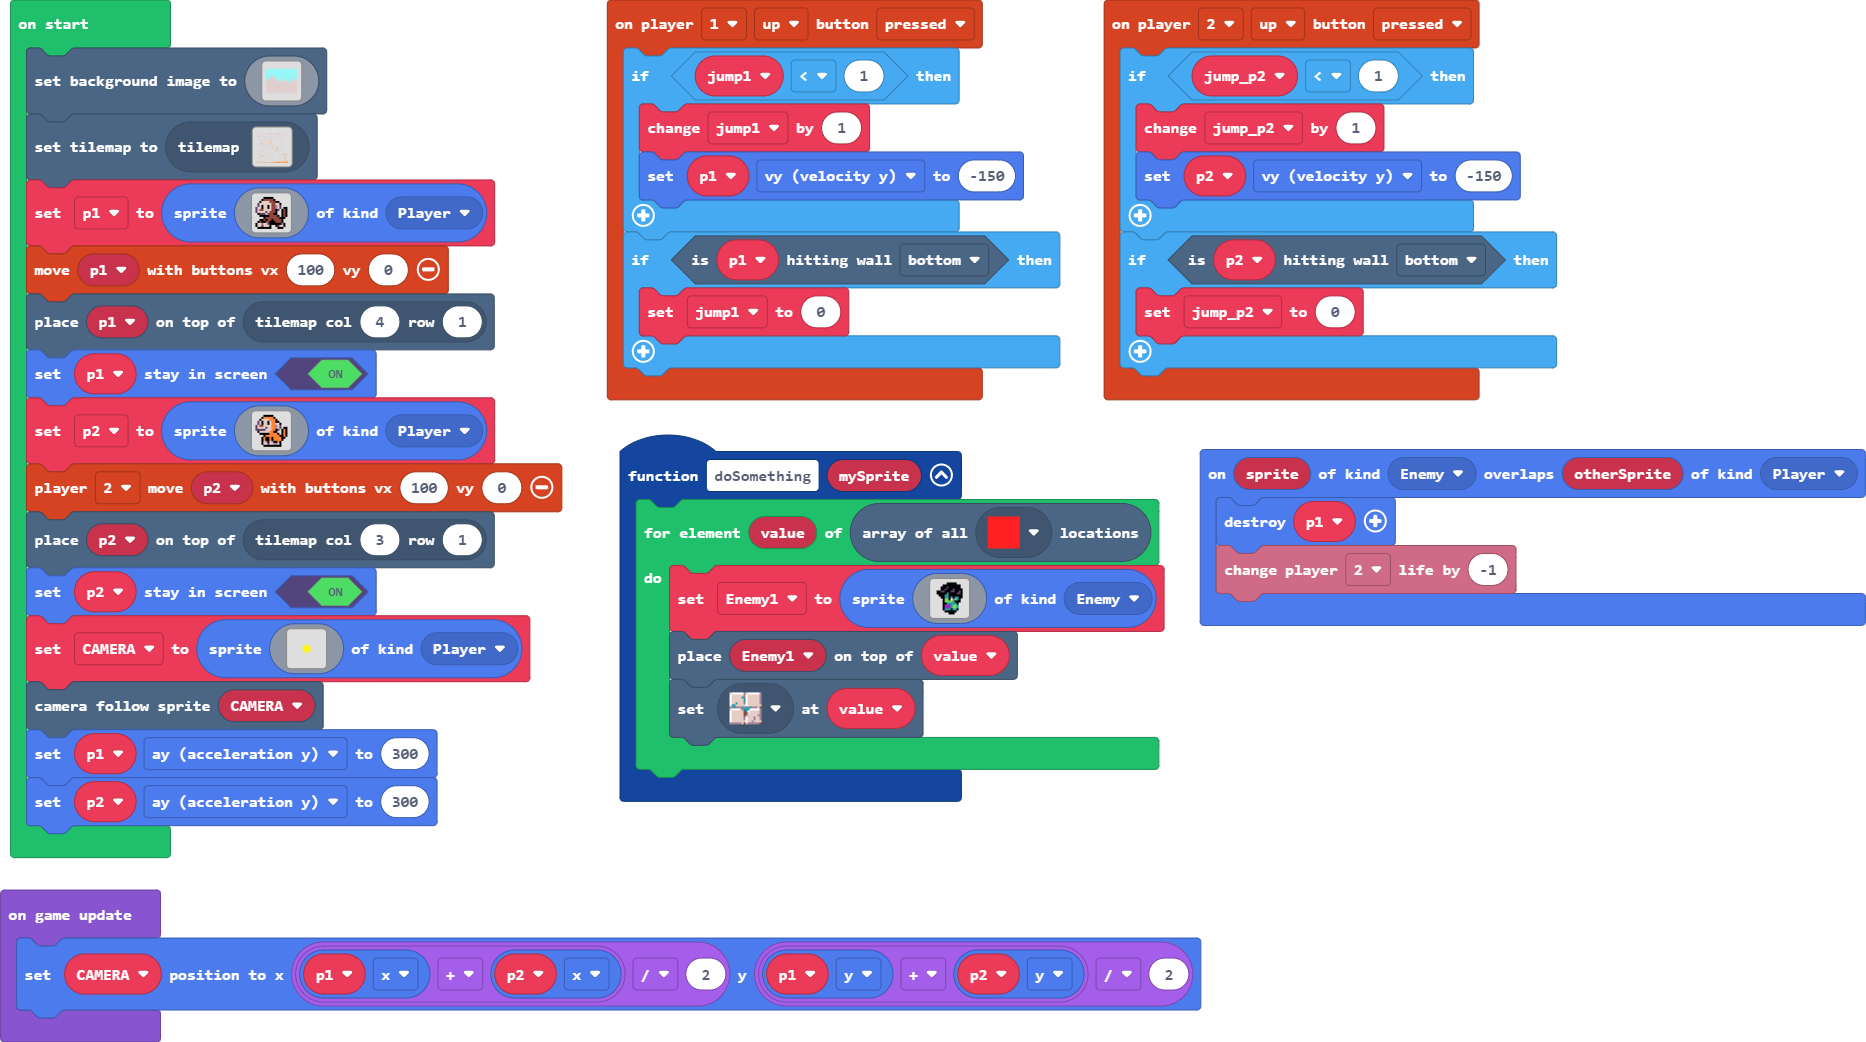
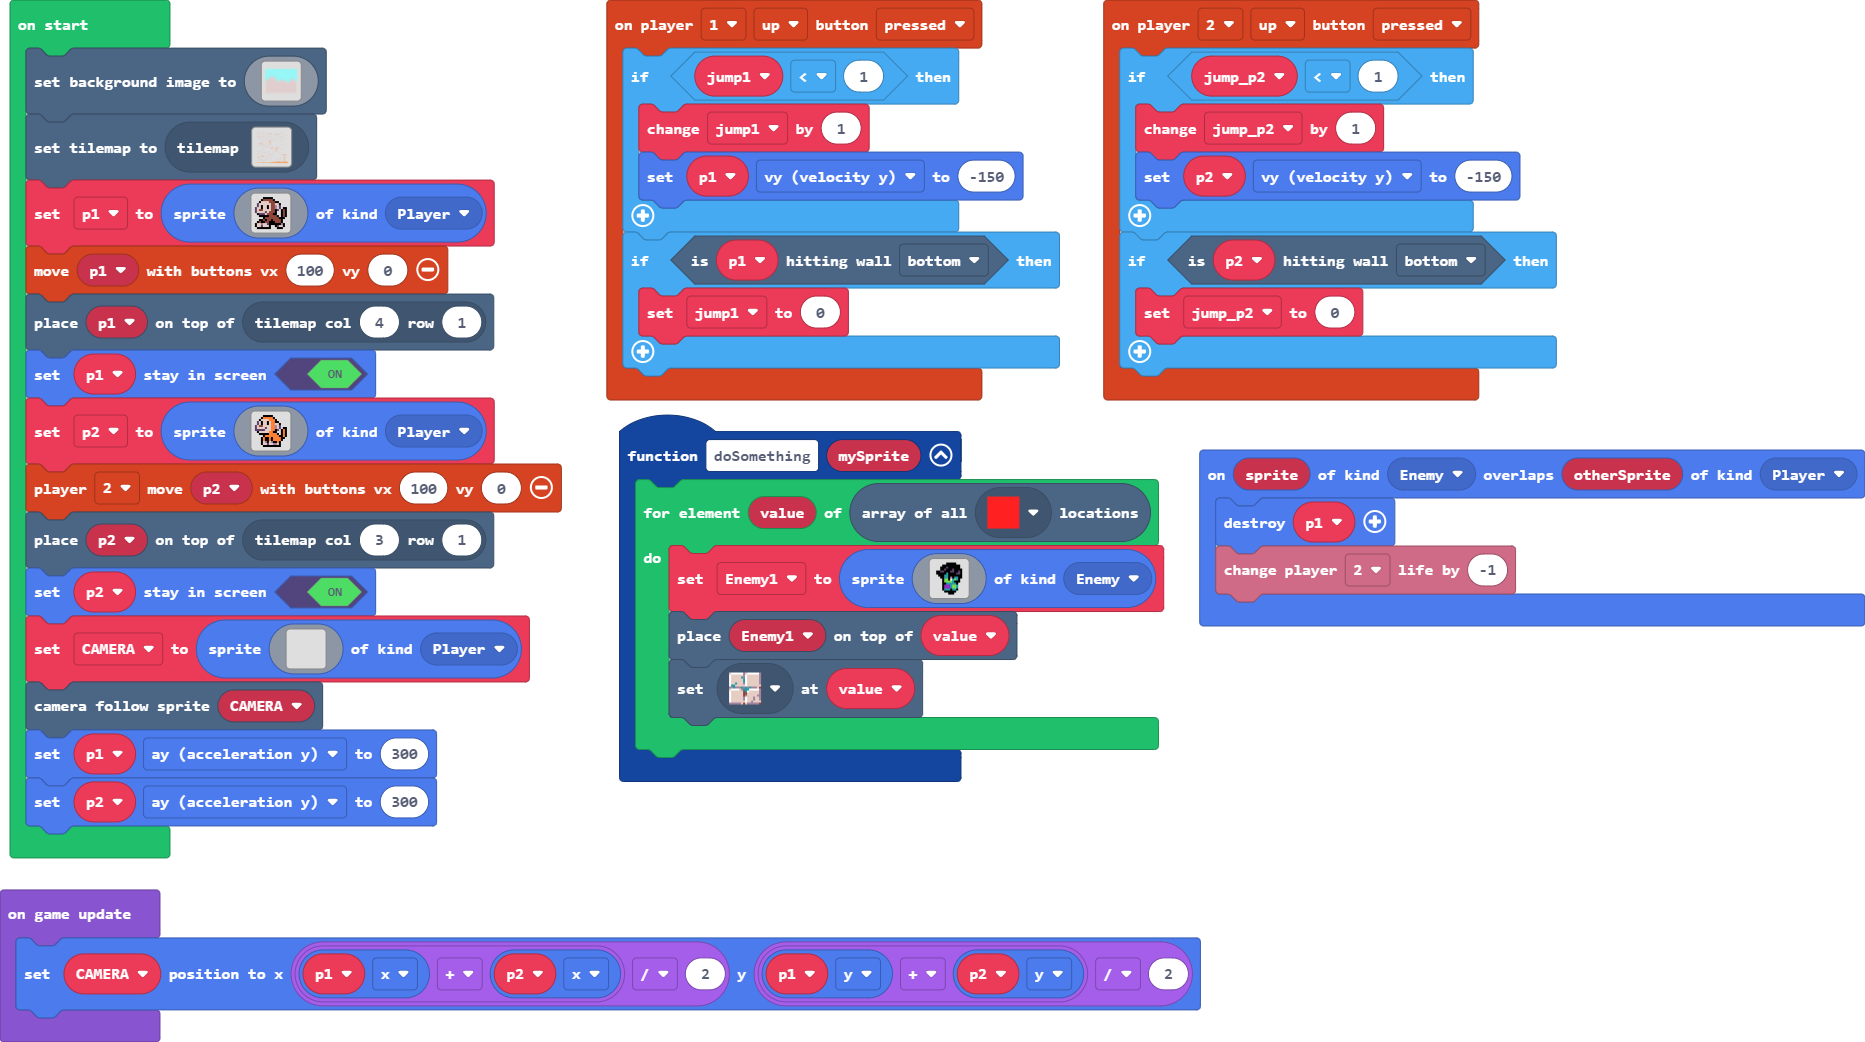
Update main.blocks, main.ts

diff --git a/main.ts b/main.ts
@@ -221,10 +221,10 @@ let CAMERA = sprites.create(img`
     . . . . . . . . . . . . . . . . 
     . . . . . . . . . . . . . . . . 
     . . . . . . . . . . . . . . . . 
-    . . . . . . . 5 5 . . . . . . . 
-    . . . . . . 5 5 5 5 . . . . . . 
-    . . . . . . 5 5 5 5 . . . . . . 
-    . . . . . . . 5 5 . . . . . . . 
+    . . . . . . . . . . . . . . . . 
+    . . . . . . . . . . . . . . . . 
+    . . . . . . . . . . . . . . . . 
+    . . . . . . . . . . . . . . . . 
     . . . . . . . . . . . . . . . . 
     . . . . . . . . . . . . . . . . 
     . . . . . . . . . . . . . . . . 
